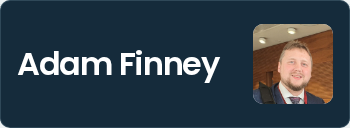
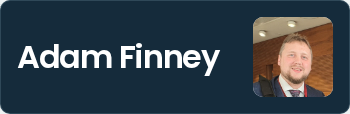
Tighten hero spacing and unify hover colours

diff --git a/_sass/_hero.scss b/_sass/_hero.scss
@@ -15,7 +15,7 @@
 }
 
 // Ordinary pages, articles and collection records use page-header.html.
-// A minimum frame gives short titles room; wrapping copy can always grow it.
+// Let copy and media set the height, with the shared frame padding around them.
 .page-heading {
   align-items: center;
   background: var(--colour-hero);
@@ -24,7 +24,6 @@
   gap: $space-8;
   justify-content: space-between;
   margin: 0;
-  min-height: 14rem;
   width: 100%;
 }
 .page-heading h1 {
@@ -56,6 +55,8 @@
 .record-portrait.image-kind-organisations img { object-fit: contain; }
 .record-portrait.image-kind-events { aspect-ratio: 16 / 9; flex-basis: 240px; width: 240px; }
 .record-portrait.image-kind-events img { object-fit: cover; }
+.record-portrait.image-kind-products { aspect-ratio: auto; flex-basis: 240px; width: 240px; }
+.record-portrait.image-kind-products img { height: auto; position: static; }
 
 @media (min-width: $desktop-breakpoint) {
   .hero { padding-block: $space-12; }
@@ -63,12 +64,13 @@
 }
 @media (max-width: $desktop-breakpoint - 1px) {
   .hero-support { font-size: .62em; }
-  .page-heading { align-items: flex-start; flex-direction: column; gap: $space-4; justify-content: center; min-height: 8rem; }
+  .page-heading { align-items: flex-start; flex-direction: column; gap: $space-4; justify-content: center; }
   .heading-copy { flex: none; }
   .page-summary { font-size: 1rem; }
   .record-portrait { flex: none; width: 80px; }
   .record-portrait.image-kind-organisations { flex: none; width: 240px; }
   .record-portrait.image-kind-events { flex: none; width: 192px; }
+  .record-portrait.image-kind-products { flex: none; width: 192px; }
   // Keep the name and face together, vertically centred, on small screens.
   .page-heading:has(.image-kind-people) { align-items: center; flex-direction: row; }
   .page-heading:has(.image-kind-people) .heading-copy { flex: 1; }

diff --git a/_sass/_actions.scss b/_sass/_actions.scss
@@ -1,8 +1,9 @@
 // One action contract for native buttons and navigation/download anchors.
 .button {
   --button-background: #fff;
-  --button-hover: #e7eef1;
   --button-text: #{$brand-blue};
+  --button-hover: var(--button-text);
+  --button-hover-text: var(--button-background);
   align-items: center;
   background: var(--button-background, var(--colour-button));
   border: 0;
@@ -48,14 +49,9 @@
 .surface-inverse {
   --border: #{$colour-border-inverse};
   --button-background: #fff;
-  --button-hover: #e7eef1;
   --button-text: #{$brand-blue};
   --colour-focus: #fff;
+  --colour-link-hover: #e1f4fc;
   background: var(--surface-inverse);
   color: var(--ink-inverse);
-}
-
-.navigation-contact > .button, .site-call-to-action .button {
-  --button-hover: var(--button-text);
-  --button-hover-text: var(--button-background);
 }

diff --git a/_sass/_semantic.scss b/_sass/_semantic.scss
@@ -10,10 +10,8 @@
 .form-field fieldset, fieldset.form-field { border: 0; padding: 0; }
 .form-field input[type='checkbox'], .form-field input[type='radio'] { width: 1.25rem; min-height: 1.25rem; height: 1.25rem; margin-right: .5rem; padding: 0; }
 .form-field .choice { align-items: center; display: flex; }
-.record-portrait.image-kind-products { flex-basis: 240px; height: 160px; }
-.record-portrait.image-kind-products img, .media-products img { object-fit: contain; }
+.media-products img { object-fit: contain; }
 .media-posts { aspect-ratio: 16 / 9; }
-@media (max-width: 767px) { .record-portrait.image-kind-products { height: 120px; width: 192px; } }
 
 .record-facts dd > span { display: block; }
 .talk-actions .resource-panel ul { flex-direction: row; flex-wrap: wrap; }

diff --git a/_sass/settings.scss b/_sass/settings.scss
@@ -111,7 +111,7 @@ $colour-border-inverse: rgba($brand-cyan, .16);
 $colour-page: #ffffff;
 $colour-page-edge: #edf1f2;
 $colour-watermark: rgba(#125770, 0.3);
-$colour-link-hover: $brand-teal-deep;
+$colour-link-hover: #b42318;
 $colour-header: #ffffff;
 $colour-breadcrumb: $colour-page-edge;
 $colour-submenu: #fff;

diff --git a/_sass/_footer.scss b/_sass/_footer.scss
@@ -2,6 +2,7 @@
   --border: #{$colour-border-inverse};
   --colour-focus: var(--colour-footer-text);
   --colour-navigation-hover: var(--colour-footer-hover);
+  --colour-link-hover: #e1f4fc;
   background: transparent;
   color: var(--colour-footer-text);
   padding-block: $frame-gap $space-8;

diff --git a/scripts/test_heroes.py b/scripts/test_heroes.py
@@ -20,6 +20,7 @@ ROUTES = {
     'directory': 'alliance/leadership/members/',
     'guide': 'guides/build-your-first-application/',
     'product': 'products/sonata/',
+    'product-morello': 'products/morello/',
     'repository': 'repositories/cheribsd/',
     'paper': 'papers/it-is-time-to-standardize-principles-and-practices-for-software-memory-safety/',
     'group': 'groups/cheri-for-sel4/',
@@ -76,6 +77,10 @@ with sync_playwright() as p:
             if name == 'directory':
                 assert page.locator('label[for="catalog-search"]').inner_text() == 'Search Organisations'
                 assert page.locator('label[for="catalog-sort"]').inner_text() == 'Sort By'
+            if name.startswith('product'):
+                media = hero.locator('.record-portrait').evaluate('''e=>{const i=e.querySelector('img'),f=e.getBoundingClientRect(),r=i.getBoundingClientRect();return {frame:[f.width,f.height],image:[r.width,r.height],ratio:i.naturalWidth/i.naturalHeight};}''')
+                assert media['frame'] == media['image'], (width, name, 'added padding around product image', media)
+                assert abs(media['image'][0] / media['image'][1] - media['ratio']) < .01, (width, name, 'product image proportions', media)
             if width in [390, 1440]:
                 if name in ['person', 'member', 'event', 'news', 'directory', 'guide']:
                     page.evaluate('''async()=>{await Promise.all([...document.querySelectorAll('.page-heading img')].map(i=>i.decode()))}''')
@@ -105,6 +110,12 @@ with sync_playwright() as p:
         ('discover/resources/glossary/', '.glossary-index a'),
         ('discover/resources/glossary/', '.glossary-permalink'),
         ('events/cheri-blossoms-conference-2026/', '.programme-days a'),
+        ('alliance/membership/contact/', '.form-panel .button'),
+        ('policies/code-of-conduct/', '.detail-aside .button'),
+        ('', '.navigation-contact .button'),
+        ('', '.site-call-to-action .button'),
+        ('alliance/membership/contact/', '.form-panel .meta a'),
+        ('news/ai-doesnt-need-a-kill-switch-it-needs-boundaries/', '.article-byline a'),
     ]:
         page.goto(URL + route)
         node = page.locator(selector).first
@@ -122,6 +133,12 @@ with sync_playwright() as p:
         focus = node.evaluate(STATE)
         assert focus == hover, (route, selector, 'pointer/keyboard states differ', hover, focus)
         assert node.evaluate('e=>getComputedStyle(e).outlineStyle') != 'none'
+        if '.button' in selector:
+            assert hover['color'] == normal['background'] and hover['background'] == normal['color'], (route, selector, 'button colours must invert', normal, hover)
+        if selector in ['.record-facts a', '.record-body a, .reading-content p a', '.form-panel .meta a']:
+            assert hover['color'] == 'rgb(180, 35, 24)', (route, selector, 'plain light-surface links turn red', hover)
+        if selector == '.article-byline a':
+            assert hover['color'] == 'rgb(225, 244, 252)', 'Dark-surface links retain a light hover colour'
         if track:
             assert normal['shadow'] == hover['shadow'] == focus['shadow'] == 'none', 'The slider has one elevated surface'
             assert track_hover == track.evaluate(STATE) and track_hover != track_normal, 'Slider elevation follows pointer and keyboard focus'
@@ -129,5 +146,5 @@ with sync_playwright() as p:
     assert not errors, errors
     browser.close()
 
-(OUT / 'verification.json').write_text(json.dumps({'views': results, 'states': states, 'accessibility_audits': 30}, indent=2) + '\n')
-print('Heroes: 90 responsive views, six enlarged-text views, 30 accessibility audits and nine pointer/keyboard comparisons passed.')
+(OUT / 'verification.json').write_text(json.dumps({'views': results, 'states': states, 'accessibility_audits': len(ROUTES) * 2}, indent=2) + '\n')
+print(f'Heroes: {len(ROUTES) * 6} responsive views, six enlarged-text views, {len(ROUTES) * 2} accessibility audits and {len(states)} pointer/keyboard comparisons passed.')

diff --git a/docs/DESIGN_SYSTEM.md b/docs/DESIGN_SYSTEM.md
@@ -1,6 +1,6 @@
 # CHERI corporate presentation system
 
-The design combines a confident dark homepage, matching navigation and heroes, a white elevated mega-menu and calm inner-page content. The visible identity comes from Poppins, navy and logo blue, the continuous honeycomb and clean resting elevation. Repeated field rules, small uppercase eyebrows and red interface accents are excluded. Native HTML and the existing Jekyll pipeline remain; no framework runtime or new authoring fields are required.
+The design combines a confident dark homepage, matching navigation and heroes, a white elevated mega-menu and calm inner-page content. The visible identity comes from Poppins, navy and logo blue, the continuous honeycomb and clean resting elevation. Repeated field rules and small uppercase eyebrows are excluded. Native HTML and the existing Jekyll pipeline remain; no framework runtime or new authoring fields are required.
 
 ## Ownership and cascade
 
@@ -18,9 +18,10 @@ The import order is foundations, base rules, navigation and site components, the
 | Neutral | `#f3f5f6`; passive supporting information and control fills |
 | Supporting text | `#50616d` on white; readable hierarchy without faint text |
 | Cyan | `#b9e2f1`; controlled emphasis and accessible links on dark surfaces |
-| Teal | Link-hover and focus roles; no collection-specific palettes |
+| Red | `#b42318`; plain-text link hover and keyboard focus on light surfaces |
+| Teal | Focus outlines; no collection-specific palettes |
 
-There is no red interface role. Existing image, logo and document-artwork colours remain unchanged, including the red PDF artwork in authored policy content. Errors use explicit language and contrast rather than a red-only signal.
+Red is reserved for plain-text link interaction on light surfaces. Dark surfaces retain a light hover colour for contrast. Existing image, logo and document-artwork colours remain unchanged, including the red PDF artwork in authored policy content. Errors use explicit language and contrast rather than a red-only signal.
 
 The homepage uses a dark canvas. Navigation and inner-page heroes use exactly the same dark palette over the light inner-page canvas. There is no theme toggle, stored theme preference or system-theme switch. Poppins is shared by headings, body text, navigation, cards and actions. Code retains its technical font.
 
@@ -45,7 +46,7 @@ The feature slider has one elevated track with opaque slides and a separate comp
 
 Newsletter and footer use separate opaque navy panels with the same width and padding, a 16px gap and 10px corners. Their outer surrounds are transparent so the page honeycomb continues through the gutters. There is no newsletter gradient or separate floating footer column. On mobile, the heading and subscription action stack naturally.
 
-The homepage hero uses an 80px maximum opening, a subordinate half-size desktop supporting statement and one cyan CHERI conclusion. Mobile scales the supporting statement for readability. Ordinary heroes share the responsive page-title scale, 32px desktop/16px mobile padding, a 10px radius and the same subtle frame as other bounded regions. Their minimum height is 14rem desktop and 8rem mobile; there is no fixed height or clipping. The entire heading group is vertically centred beside any image. Mobile portraits remain beside the name; logos and event images stack below the heading group. Longer titles, introductions and inline facts grow the frame naturally.
+The homepage hero uses an 80px maximum opening, a subordinate half-size desktop supporting statement and one cyan CHERI conclusion. Mobile scales the supporting statement for readability. Ordinary heroes share the responsive page-title scale, 32px desktop/16px mobile padding, a 10px radius and the same subtle frame as other bounded regions. Their height follows the copy and media, with no minimum height, fixed height or clipping. The entire heading group is vertically centred beside any image. Mobile portraits remain beside the name; logos and event images stack below the heading group. Longer titles, introductions and inline facts grow the frame naturally.
 
 People, member-organisation and news heroes omit summaries. Those source fields remain available to search, metadata and cards; body content is unchanged. Other page introductions remain visible. Do not add per-record layout flags or move biographies into the hero. Generated fact labels and directory control labels use consistent capitalisation, such as “Governance Role” and “Sort By”; authored Markdown names, roles and values retain their original case.
 
@@ -70,7 +71,7 @@ Metadata is explicit through the include parameter `metadata=true`. Event dates/
 
 All linked records use a common footer for the arrow and any permitted informational label. Grid footers align at the bottom; compact rows place the arrow consistently to the right. Founder labels derive only from existing membership metadata and have no emblem, fill, outline, shadow or independent interaction. Wide membership lists use a stable footer position; narrow lists give the label a separate row to avoid collisions. The protected member/founder counts are 52 and 21.
 
-Portraits are square: 56px in ordinary rows, 88px in desktop grids and 72px in mobile grids. Portrait grids use compact horizontal identity cards rather than landscape poster slots. Logos use 3:1 contained frames, including 270×90px desktop heroes and up to 240×80px mobile heroes. The frame has no decorative outline and a white backing keeps transparent artwork readable. Detail portraits are 160px desktop and 80px mobile, with face-focused cover images. News/event thumbnails use 16:9 cover images in cards, heroes and article leads. Additional authored content images retain their own proportions.
+Portraits are square: 56px in ordinary rows, 88px in desktop grids and 72px in mobile grids. Portrait grids use compact horizontal identity cards rather than landscape poster slots. Logos use 3:1 contained frames, including 270×90px desktop heroes and up to 240×80px mobile heroes. The frame has no decorative outline and a white backing keeps transparent artwork readable. Detail portraits are 160px desktop and 80px mobile, with face-focused cover images. News/event thumbnails use 16:9 cover images in cards, heroes and article leads. Product hero images use their natural proportions at 240px desktop/192px mobile width, avoiding white padding or cropped board details. Additional authored content images retain their own proportions.
 
 Image-bearing directories retain neutral placeholders for absent or failed media. Placeholders are decorative beside the title, not invented identities. Text-only navigation and sparse detail headers do not reserve absent media space. Source assets, alternative text and relationships stay intact.
 
@@ -80,7 +81,7 @@ Image-bearing directories retain neutral placeholders for absent or failed media
 
 Resource actions fit their labels instead of becoming unrelated full-width bars. Long labels wrap. The source primary resource remains prominent. Prose links remain recognisable as links.
 
-Contact Us and Get the newsletter use white buttons with logo-blue text in both palettes; hover and keyboard focus invert those colours. Footer links retain their filled hover treatment without a mouse-hover underline, and keep a keyboard-focus indicator.
+All standard buttons use white with logo-blue text in both palettes; hover and keyboard focus invert those colours. Disabled buttons retain their disabled state. Plain links on light surfaces turn red on hover/focus, while dark-surface links retain a light colour. Footer links retain their filled hover treatment without a mouse-hover underline, and keep a keyboard-focus indicator.
 
 `promotional-panel.html` is passive with a standard section heading and one real primary subscription link. `subscribe.html` and the legacy newsletter include share it. The wording remains “Stay connected with CHERI” and “Get the newsletter”, with any existing supporting sentence preserved. There is no whole-banner link or simulated second button.
 
@@ -127,6 +128,6 @@ Contact/newsletter forms submit natively when front matter supplies `form.action
 
 ## Verification and references
 
-Run safe-mode root and `/preview` builds, content/refinement validation, event and form Ruby tests, and the existing catalogue/layout/presentation/refinement/consistency browser suites. `test_corporate.py` adds six-width coverage across page families, computed border/no-red contracts, click/keyboard menu regression checks, short-viewport navigation, no-JavaScript use and accessibility checks. CI runs that suite in Chromium, Firefox and WebKit at both deployment paths. Do not replace preservation or behavioural assertions merely to pass a new visual treatment.
+Run safe-mode root and `/preview` builds, content/refinement validation, event and form Ruby tests, and the existing catalogue/layout/presentation/refinement/consistency browser suites. `test_corporate.py` adds six-width coverage across page families, computed border/colour contracts, click/keyboard menu regression checks, short-viewport navigation, no-JavaScript use and accessibility checks. CI runs that suite in Chromium, Firefox and WebKit at both deployment paths. Do not replace preservation or behavioural assertions merely to pass a new visual treatment.
 
 The design draws on [Material elevation](https://material-web.dev/components/elevation/) and [Bootstrap typography](https://getbootstrap.com/docs/5.3/content/typography/) without adopting their runtime dependencies. See the [corporate design review and screenshot gallery](screenshots/corporate-system/README.md) for causes, matching comparisons, exact checks and limitations. Earlier galleries document historical states rather than current component contracts.

diff --git a/docs/hero-review.md b/docs/hero-review.md
@@ -2,9 +2,11 @@
 
 All work is on `design/catalogue-polish`. This review changes templates, generated interface labels and styling. No Markdown records, authored prose, role values, names, artwork or relationships are edited.
 
-Every hero now comes from `_includes/page-header.html`, with shared geometry in `_sass/_hero.scss`. Ordinary heroes vertically centre the heading group, use one title scale and padding system, and expand for long titles instead of clipping them. People summaries are omitted from the hero while their source fields and biographies remain intact. Portraits stay beside names on mobile; wider media stack. The homepage keeps its existing display hierarchy through the same template.
+Every hero now comes from `_includes/page-header.html`, with shared geometry in `_sass/_hero.scss`. Ordinary heroes vertically centre the heading group, use one title scale and padding system, and expand for long titles instead of clipping them. Their height follows the content rather than a minimum frame height, avoiding excess space above and below shorter headings and logos. People summaries are omitted from the hero while their source fields and biographies remain intact. Portraits stay beside names on mobile; wider media stack. The homepage keeps its existing display hierarchy through the same template.
 
-Cards, text links, directory view controls, glossary controls, programme tabs and slider links give consistent pointer and keyboard feedback. Focus rings remain visible. Existing Contact Us/newsletter colour inversion, matching navigation palettes and footer hover behaviour remain intact. Generated labels such as Governance Role, Focus Areas, Publication Type and Sort By are capitalised in their design sources; Markdown values keep their original case.
+Product hero frames follow each image's natural proportions so photographs such as Morello fill their rounded frame without added white strips or cropping. Organisation logos retain their white backing and 3:1 containment.
+
+Cards, text links, directory view controls, glossary controls, programme tabs and slider links give consistent pointer and keyboard feedback. Focus rings remain visible. All standard buttons invert their colours on hover/focus; plain links on light surfaces turn red. Dark-surface links keep their light hover colour. Matching navigation palettes and footer hover behaviour remain intact. Generated labels such as Governance Role, Focus Areas, Publication Type and Sort By are capitalised in their design sources; Markdown values keep their original case.
 
 ## Visual comparisons
 
@@ -15,9 +17,11 @@ Cards, text links, directory view controls, glossary controls, programme tabs an
 | Member, desktop | [Before](screenshots/hero-consistency/before-member-1440.png) | [After](screenshots/hero-consistency/after-member-1440.png) |
 | Member, mobile | [Before](screenshots/hero-consistency/before-member-390.png) | [After](screenshots/hero-consistency/after-member-390.png) |
 
+Additional examples: [compact Cantech hero](screenshots/hero-consistency/after-cantech-1440.png), [Morello desktop](screenshots/hero-consistency/after-morello-1440.png), and [Morello mobile](screenshots/hero-consistency/after-morello-390.png).
+
 ## Repeatable checks
 
-Run the safe-mode Jekyll build and existing content/link/component checks. `scripts/test_heroes.py` adds 90 responsive views across 15 page families at 320–1920px, six views with 200% text sizing, 30 accessibility audits, and nine comparisons between hover and keyboard-focus states. Configure `SITE_URL`, `REPORT_ROOT`, `PLAYWRIGHT_BROWSERS_PATH` and `AXE_PATH` as for the other browser suites. Run it at the root URL and a prefixed deployment URL.
+Run the safe-mode Jekyll build and existing content/link/component checks. `scripts/test_heroes.py` adds 96 responsive views across 16 representative pages at 320–1920px, six views with 200% text sizing, 32 accessibility audits, and 15 comparisons between hover and keyboard-focus states. Product frames must match the image proportions without added padding; buttons must invert, light-surface text links must turn red, and dark-surface links must stay readable. Configure `SITE_URL`, `REPORT_ROOT`, `PLAYWRIGHT_BROWSERS_PATH` and `AXE_PATH` as for the other browser suites. Run it at the root URL and a prefixed deployment URL.
 
 The full-site geometry review also checks all 472 rendered inner-page heroes at desktop and mobile widths for centred heading groups, valid title/image bounds and no horizontal overflow. The existing component suite covers another 176 responsive views.
 
